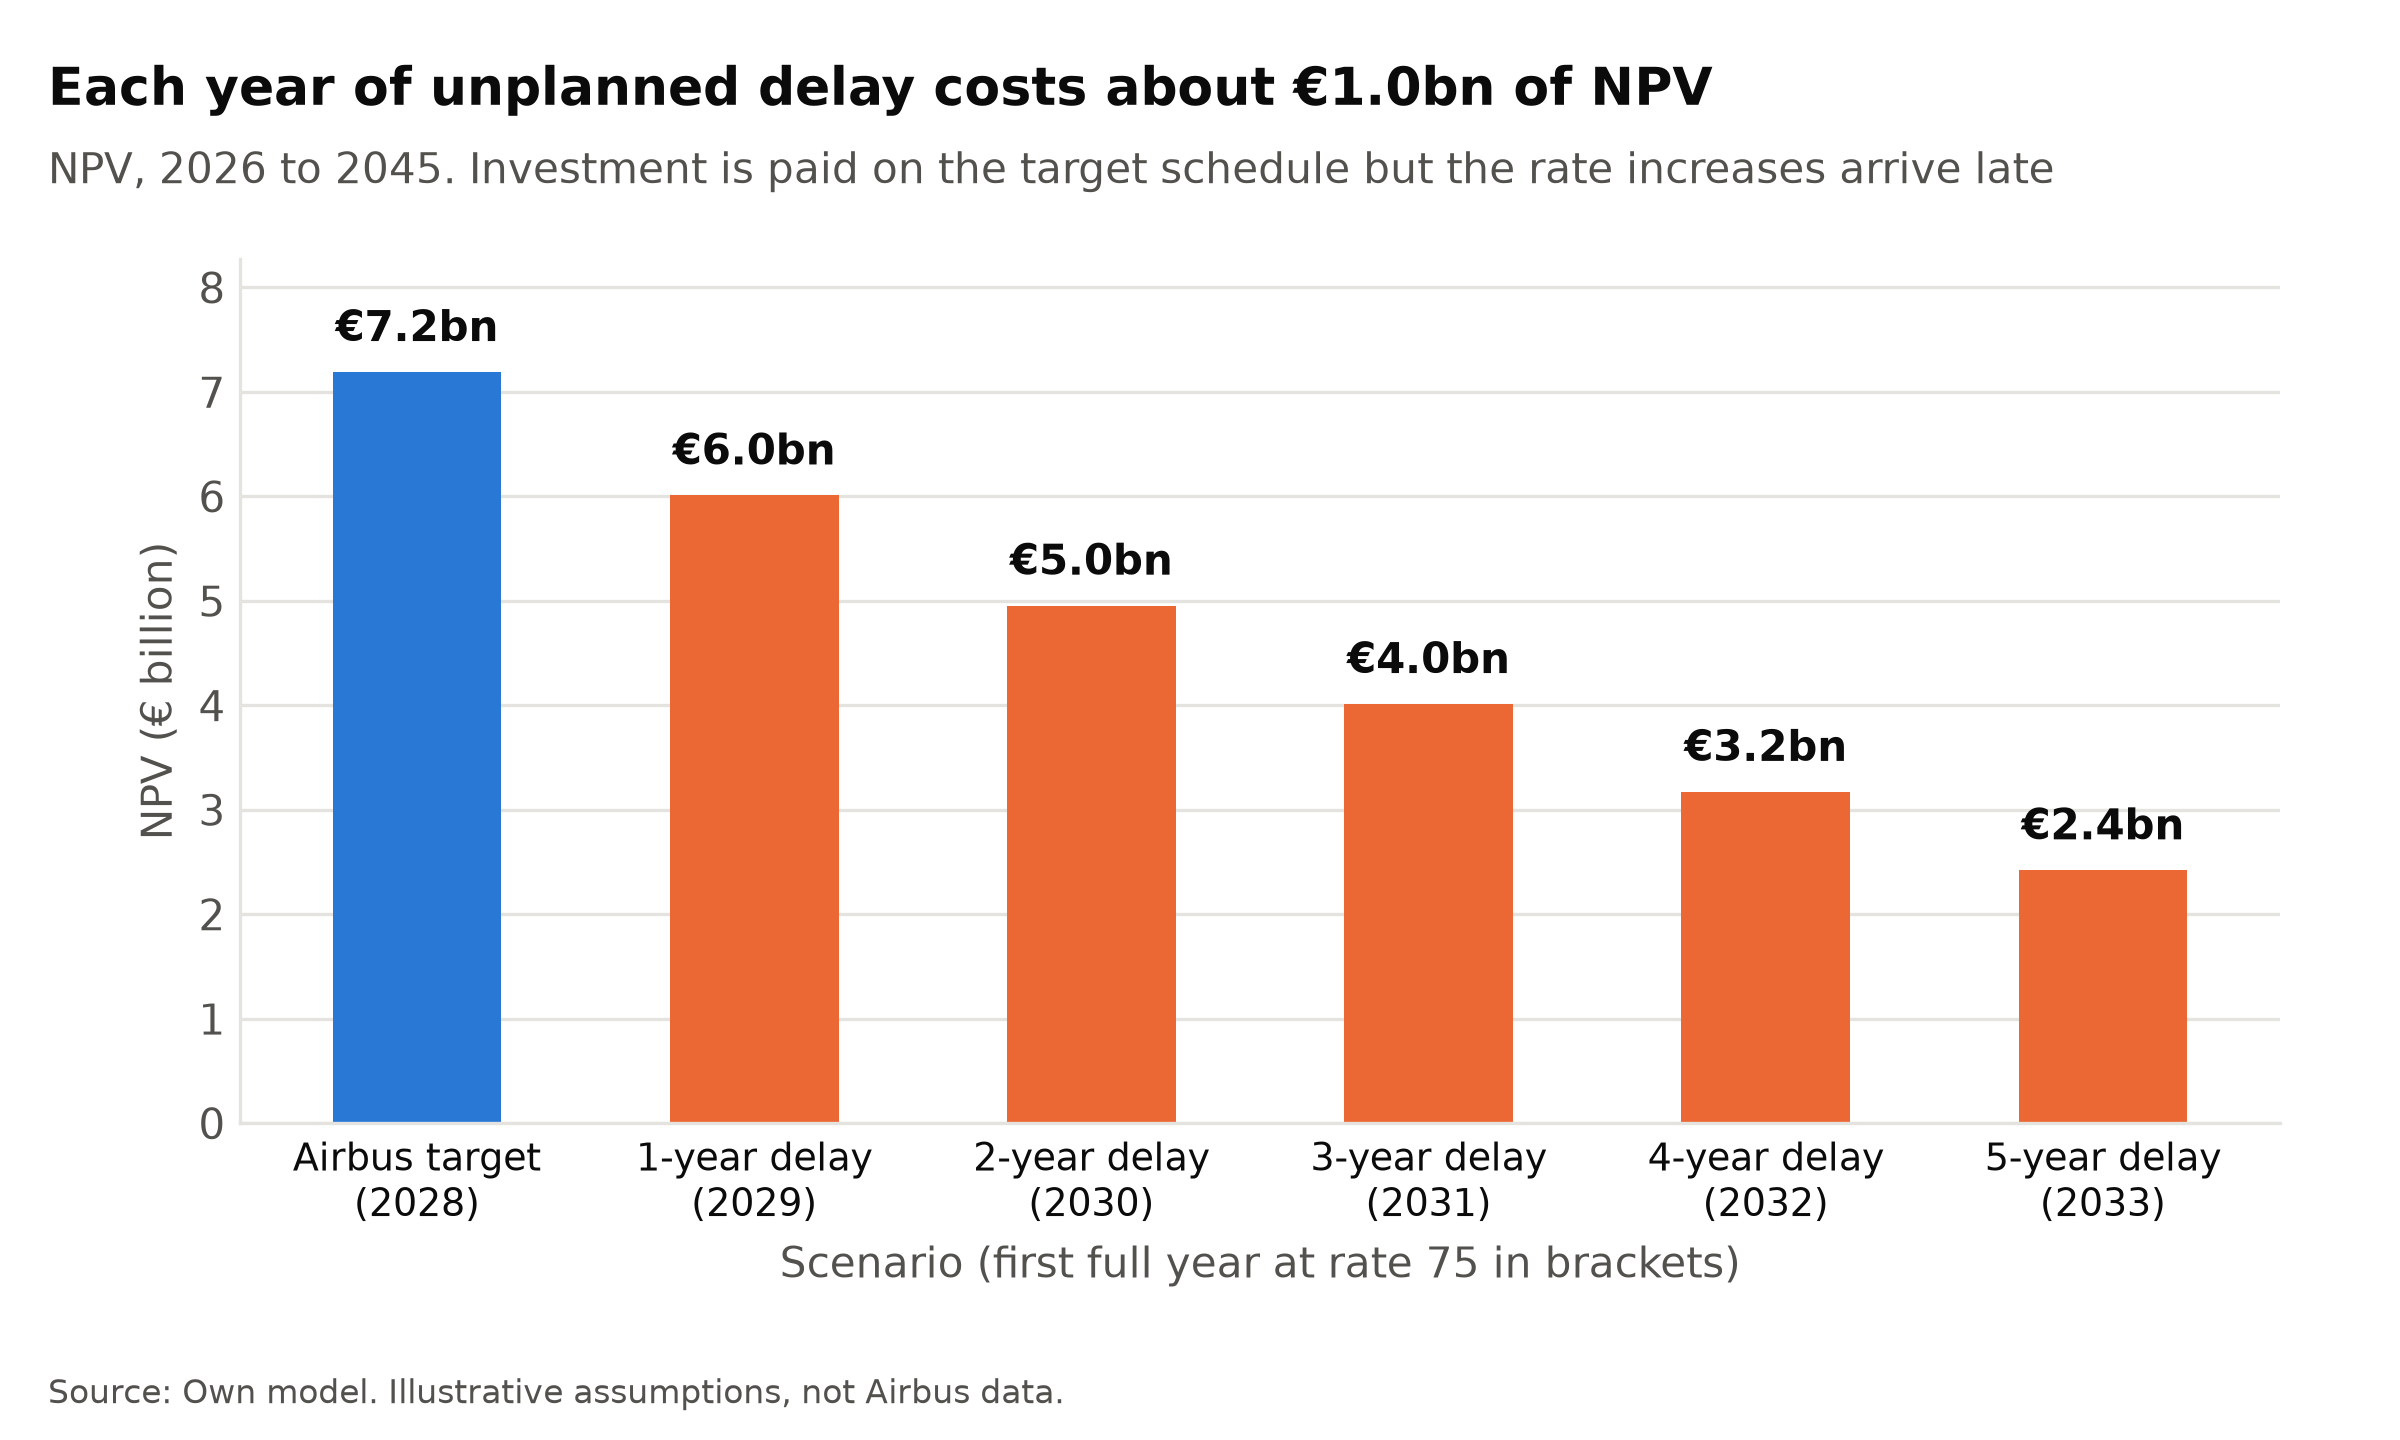
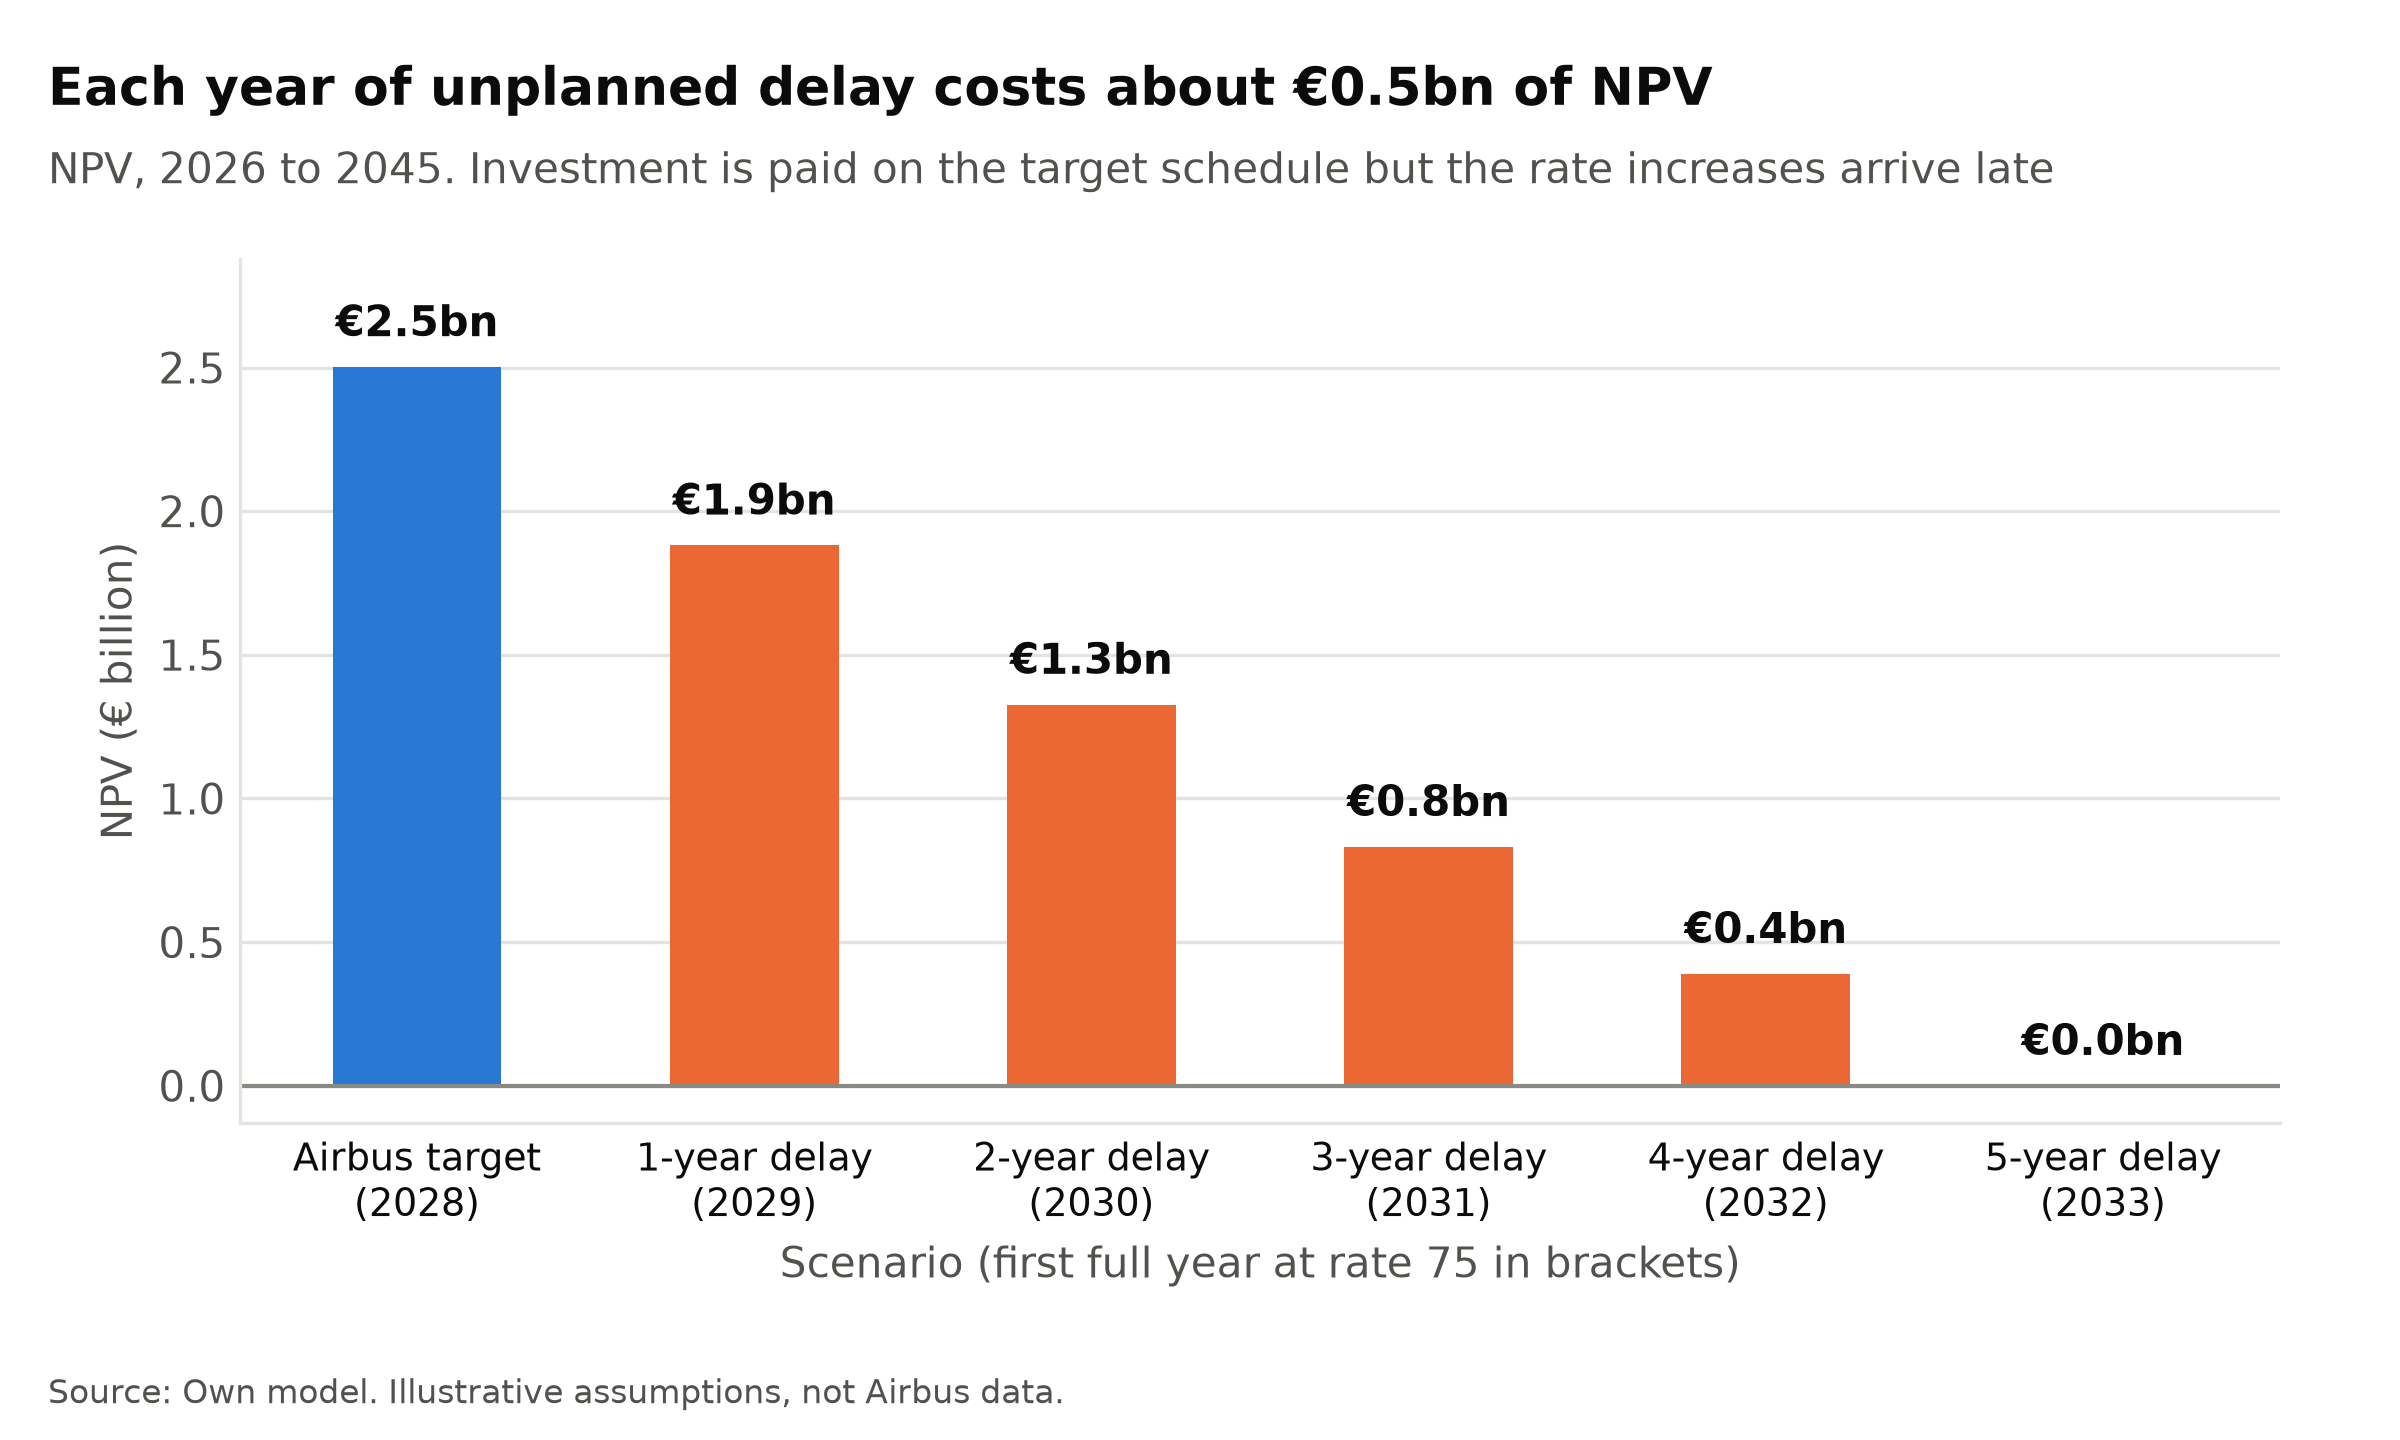
Change base supply-chain availability to 85%; add report figures

diff --git a/plots.py b/plots.py
@@ -140,7 +140,7 @@ def plot_npv_vs_production_rate(reported):
         fig,
         headline=(
             f"NPV peaks at {peak_rate:.0f} aircraft/month, "
-            f"where capacity meets delivery demand"
+            f"where supply-limited output meets delivery demand"
         ),
         subtitle=(
             f"NPV, {modelled_period_text()}, by constant monthly "
@@ -375,6 +375,13 @@ def plot_npv_tornado():
                 va="center",
                 color=COLOR_TEXT,
                 fontsize=9,
+                # White patch so the zero line does not run through a label
+                bbox={
+                    "facecolor": "white",
+                    "edgecolor": "none",
+                    "pad": 1.5,
+                },
+                zorder=5,
             )
 
     ax.axvline(
@@ -784,8 +791,10 @@ def plot_target_case(ramp_results):
     final_deliveries = df["deliveries"].iloc[-1]
     final_capacity = df["production_capacity"].iloc[-1]
 
-    # When capacity is the binding constraint in every year, deliveries
-    # and capacity are the same line, so they are drawn and labelled once.
+    # production_capacity is the planned rate after the supply ceiling,
+    # so it is what suppliers allow Airbus to build. When it is the
+    # binding constraint in every year, deliveries follow the same line
+    # and are drawn and labelled once.
     capacity_equals_deliveries = (
         (df["production_capacity"] - df["deliveries"]).abs() < 1
     ).all()
@@ -804,7 +813,7 @@ def plot_target_case(ramp_results):
             df["year"],
             df["deliveries"],
             color=COLOR_PRIMARY,
-            label="Deliveries (equal to production capacity)",
+            label="Deliveries (equal to the supply ceiling)",
         )
 
         end_labels.append(
@@ -816,7 +825,7 @@ def plot_target_case(ramp_results):
             df["production_capacity"],
             color=COLOR_TERTIARY,
             linestyle="--",
-            label="Production capacity",
+            label="Supply ceiling",
         )
 
         ax.plot(
@@ -827,7 +836,7 @@ def plot_target_case(ramp_results):
         )
 
         end_labels.append(
-            (final_capacity, f"Capacity {final_capacity:.0f}")
+            (final_capacity, f"Supply ceiling {final_capacity:.0f}")
         )
         end_labels.append(
             (final_deliveries, f"Deliveries {final_deliveries:.0f}")
@@ -860,12 +869,12 @@ def plot_target_case(ramp_results):
 
     if capacity_bound_years == len(df):
         headline = (
-            "Capacity, not demand, limits deliveries "
+            "Supply, not demand, limits deliveries "
             "in every year of the Airbus target case"
         )
     else:
         headline = (
-            f"Capacity limits deliveries in {capacity_bound_years} "
+            f"Supply limits deliveries in {capacity_bound_years} "
             f"of {len(df)} years of the Airbus target case"
         )
 
@@ -873,7 +882,7 @@ def plot_target_case(ramp_results):
         fig,
         headline=headline,
         subtitle=(
-            "Airbus target case: annual delivery demand, production capacity "
+            "Airbus target case: annual delivery demand, supply ceiling "
             "and deliveries"
         ),
     )
@@ -1286,8 +1295,9 @@ def plot_npv_by_delay(delays, period_text):
     ax.set_xlabel("Delay to the Airbus target case (years)")
     ax.set_ylabel("NPV (€ billion)")
 
+    # Upper right is clear because both lines fall from left to right
     ax.legend(
-        loc="lower left",
+        loc="upper right",
         fontsize=9,
     )
 

diff --git a/plot_style.py b/plot_style.py
@@ -8,6 +8,14 @@ import matplotlib.pyplot as plt
 
 OUTPUT_DIR = Path(__file__).parent / "outputs"
 
+# Clean copies of every figure for the written report: no headline,
+# subtitle or source note, because the report caption carries those
+REPORT_DIR = OUTPUT_DIR / "report"
+REPORT_SUFFIX = "_report"
+
+# Marks the text that is left out of the report copy
+STANDALONE_ONLY = "standalone_only"
+
 SOURCE_NOTE = (
     "Source: Own model. Illustrative assumptions, not Airbus data."
 )
@@ -61,6 +69,10 @@ def billions(value_in_millions):
 
 def euro_billions(value_in_billions):
     """Format a € billion value for labels, with a proper minus sign."""
+    # A value that rounds to zero is shown without a minus sign
+    if round(value_in_billions, 1) == 0:
+        value_in_billions = 0
+
     sign = "\u2212" if value_in_billions < 0 else ""
 
     return f"{sign}€{abs(value_in_billions):.1f}bn"
@@ -121,9 +133,17 @@ def add_titles(fig, headline, subtitle):
     shrink_to_fit(fig, headline_text)
     shrink_to_fit(fig, subtitle_text)
 
+    headline_text.set_gid(STANDALONE_ONLY)
+    subtitle_text.set_gid(STANDALONE_ONLY)
+
 
 def save_figure(fig, filename, source_note=SOURCE_NOTE):
-    fig.text(
+    """Save two copies: a standalone figure and a clean one for the report.
+
+    outputs/<name>.png               headline, subtitle and source note
+    outputs/report/<name>_report.png the plot only, cropped to its content
+    """
+    source_text = fig.text(
         0.02,
         0.02,
         source_note,
@@ -132,12 +152,31 @@ def save_figure(fig, filename, source_note=SOURCE_NOTE):
         ha="left",
         va="bottom",
     )
+    source_text.set_gid(STANDALONE_ONLY)
 
     OUTPUT_DIR.mkdir(exist_ok=True)
 
     fig.savefig(
         OUTPUT_DIR / filename,
         dpi=300,
+    )
+
+    # Report copy: hide the title block and source note, then crop
+    for text in fig.texts:
+        if text.get_gid() == STANDALONE_ONLY:
+            text.set_visible(False)
+
+    REPORT_DIR.mkdir(exist_ok=True)
+
+    report_filename = (
+        Path(filename).stem + REPORT_SUFFIX + Path(filename).suffix
+    )
+
+    fig.savefig(
+        REPORT_DIR / report_filename,
+        dpi=300,
+        bbox_inches="tight",
+        pad_inches=0.1,
     )
 
     plt.close(fig)

diff --git a/README.md b/README.md
@@ -88,7 +88,7 @@ Capacity investment is phased over the ramp and paid the year before the capacit
 | Assumption | Base value | Basis |
 |---|---|---|
 | No-investment baseline | 55 aircraft/month | 2019 delivery record (53.5/month) plus about 3% for capacity added since |
-| Supply-chain availability | 95% | Assumption; Airbus has delivered roughly 92–102% of its annual targets in 2022–2025 |
+| Supply-chain availability | 85% | Assumption between two measures: about 77% of the rate planned two to three years earlier (2024–2025), and 92–102% of annual delivery targets (2022–2025) |
 | Delivery demand | 900 aircraft/year | Airbus's stated stabilzation rate; about 53% of its forecast single-aisle market |
 | Margin per additional aircraft | €8m | Assumption |
 | Ramp investment to rate 75 | €2.5bn | Assumption |
